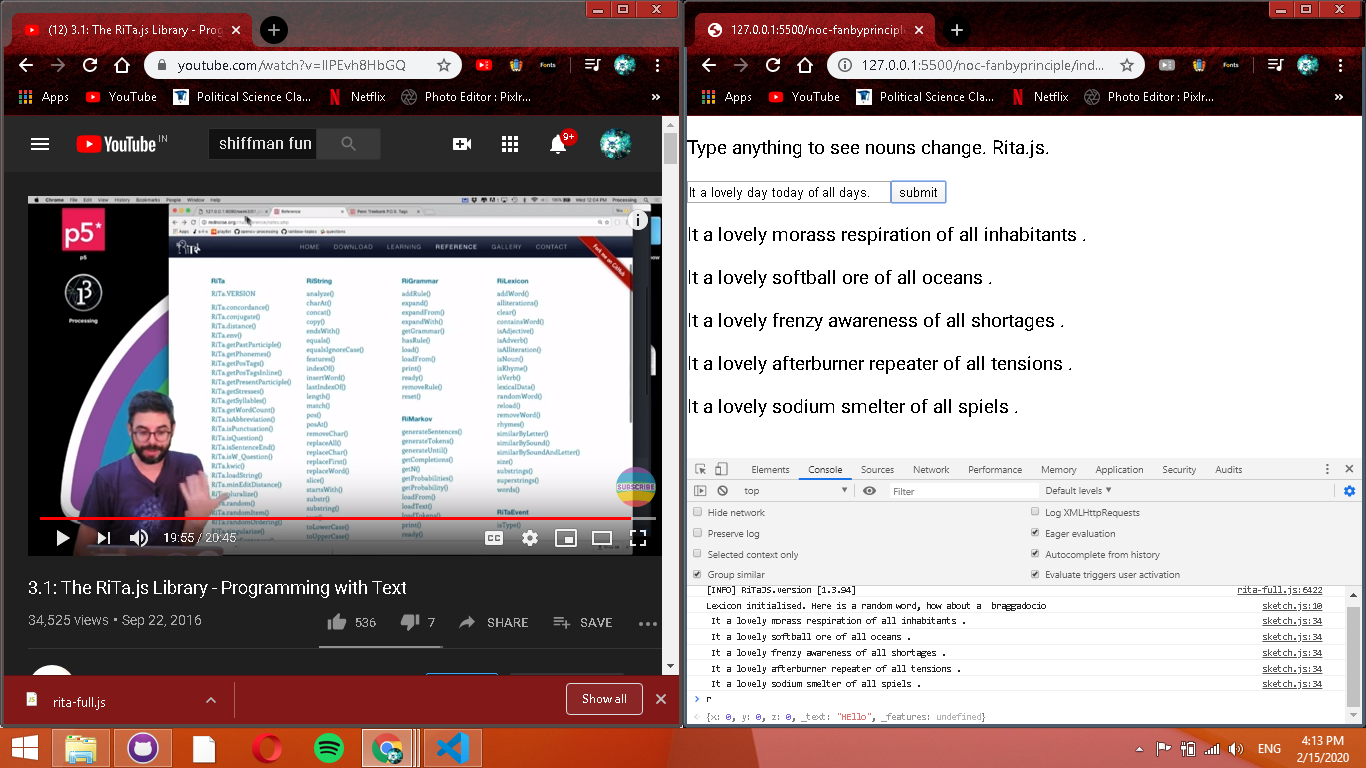
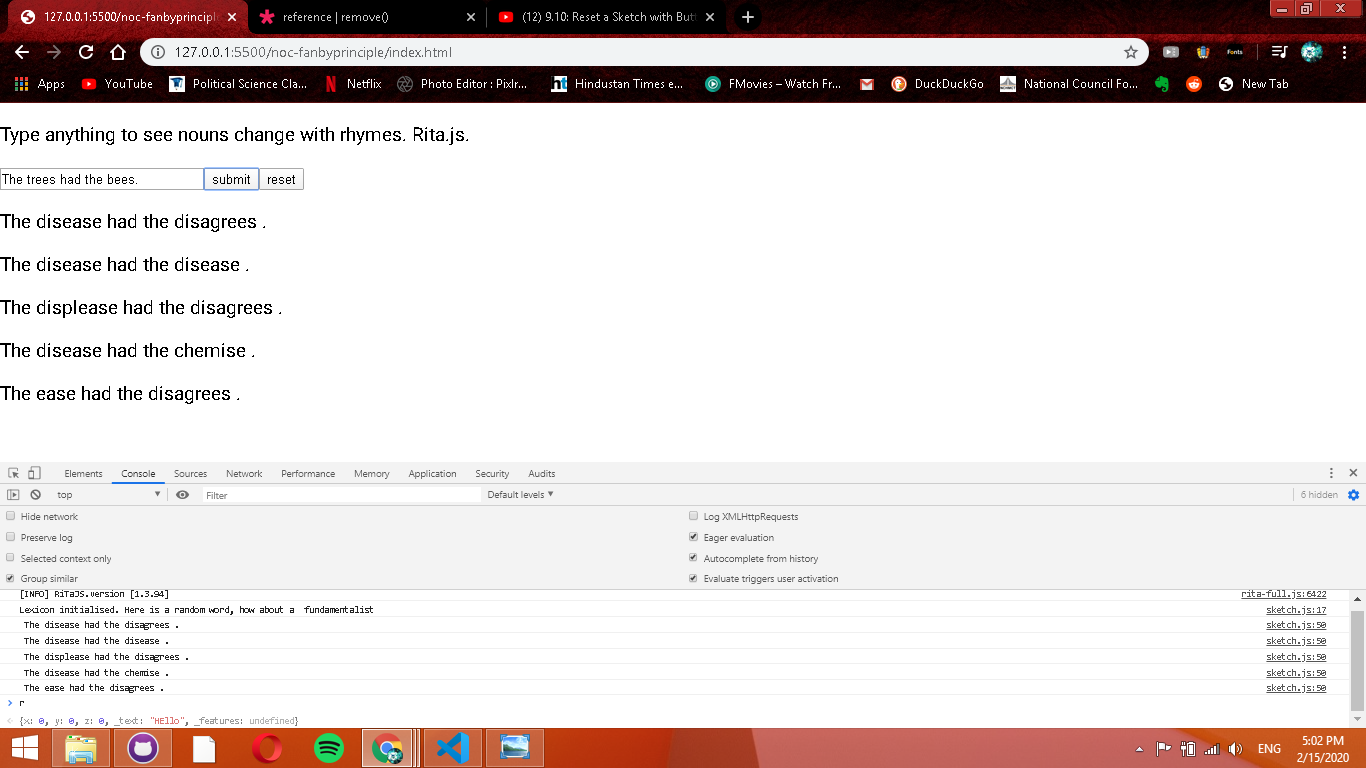
rita_js_demo : added delete and it rhymes now.

diff --git a/extra_projects/rita_js_demo/sketch.js b/extra_projects/rita_js_demo/sketch.js
@@ -1,18 +1,34 @@
 var input
 var button
+var dutton
 
 var lexicon
+var ptext = ''
 
 function setup(){
     noCanvas()
-    createP('Type anything to see nouns change. Rita.js.')
+    resetSketch()
+    }
+
+function resetSketch(){
+    removeElements()
+    createP('Type anything to see nouns change with rhymes. Rita.js.')
     lexicon = new RiLexicon()
     console.log("Lexicon initialised. Here is a random word, how about a ", lexicon.randomWord(5))
-    input = createInput("It was a dark and stormy night.")
+    input = createInput(ptext)
     button = createButton('submit')
+    dutton = createButton('reset')
     input.changed(processRita)
     button.mousePressed(processRita)
+    dutton.mousePressed(deleteText)
     input.size(200)
+
+}
+
+function deleteText(){
+    SelectText = selectAll('.text')
+    console.log(SelectText)
+    resetSketch()
 }
 
 function processRita(){
@@ -25,12 +41,13 @@ function processRita(){
     var output = ''
     for (var i=0; i<words.length; ++i){
         if(/nn.*/.test(pos[i])){
-            output += " " +lexicon.randomWord(pos[i])
+            output += " " +lexicon.rhymes(words[i])[random(lexicon.rhymes(words[i])).length]
         } else {
             output += " " + words[i]    
         }
         
     }
     console.log(output)
-    createP(output)
+    ptext = output
+    let mydiv = createP(ptext).addClass('text')
 }
